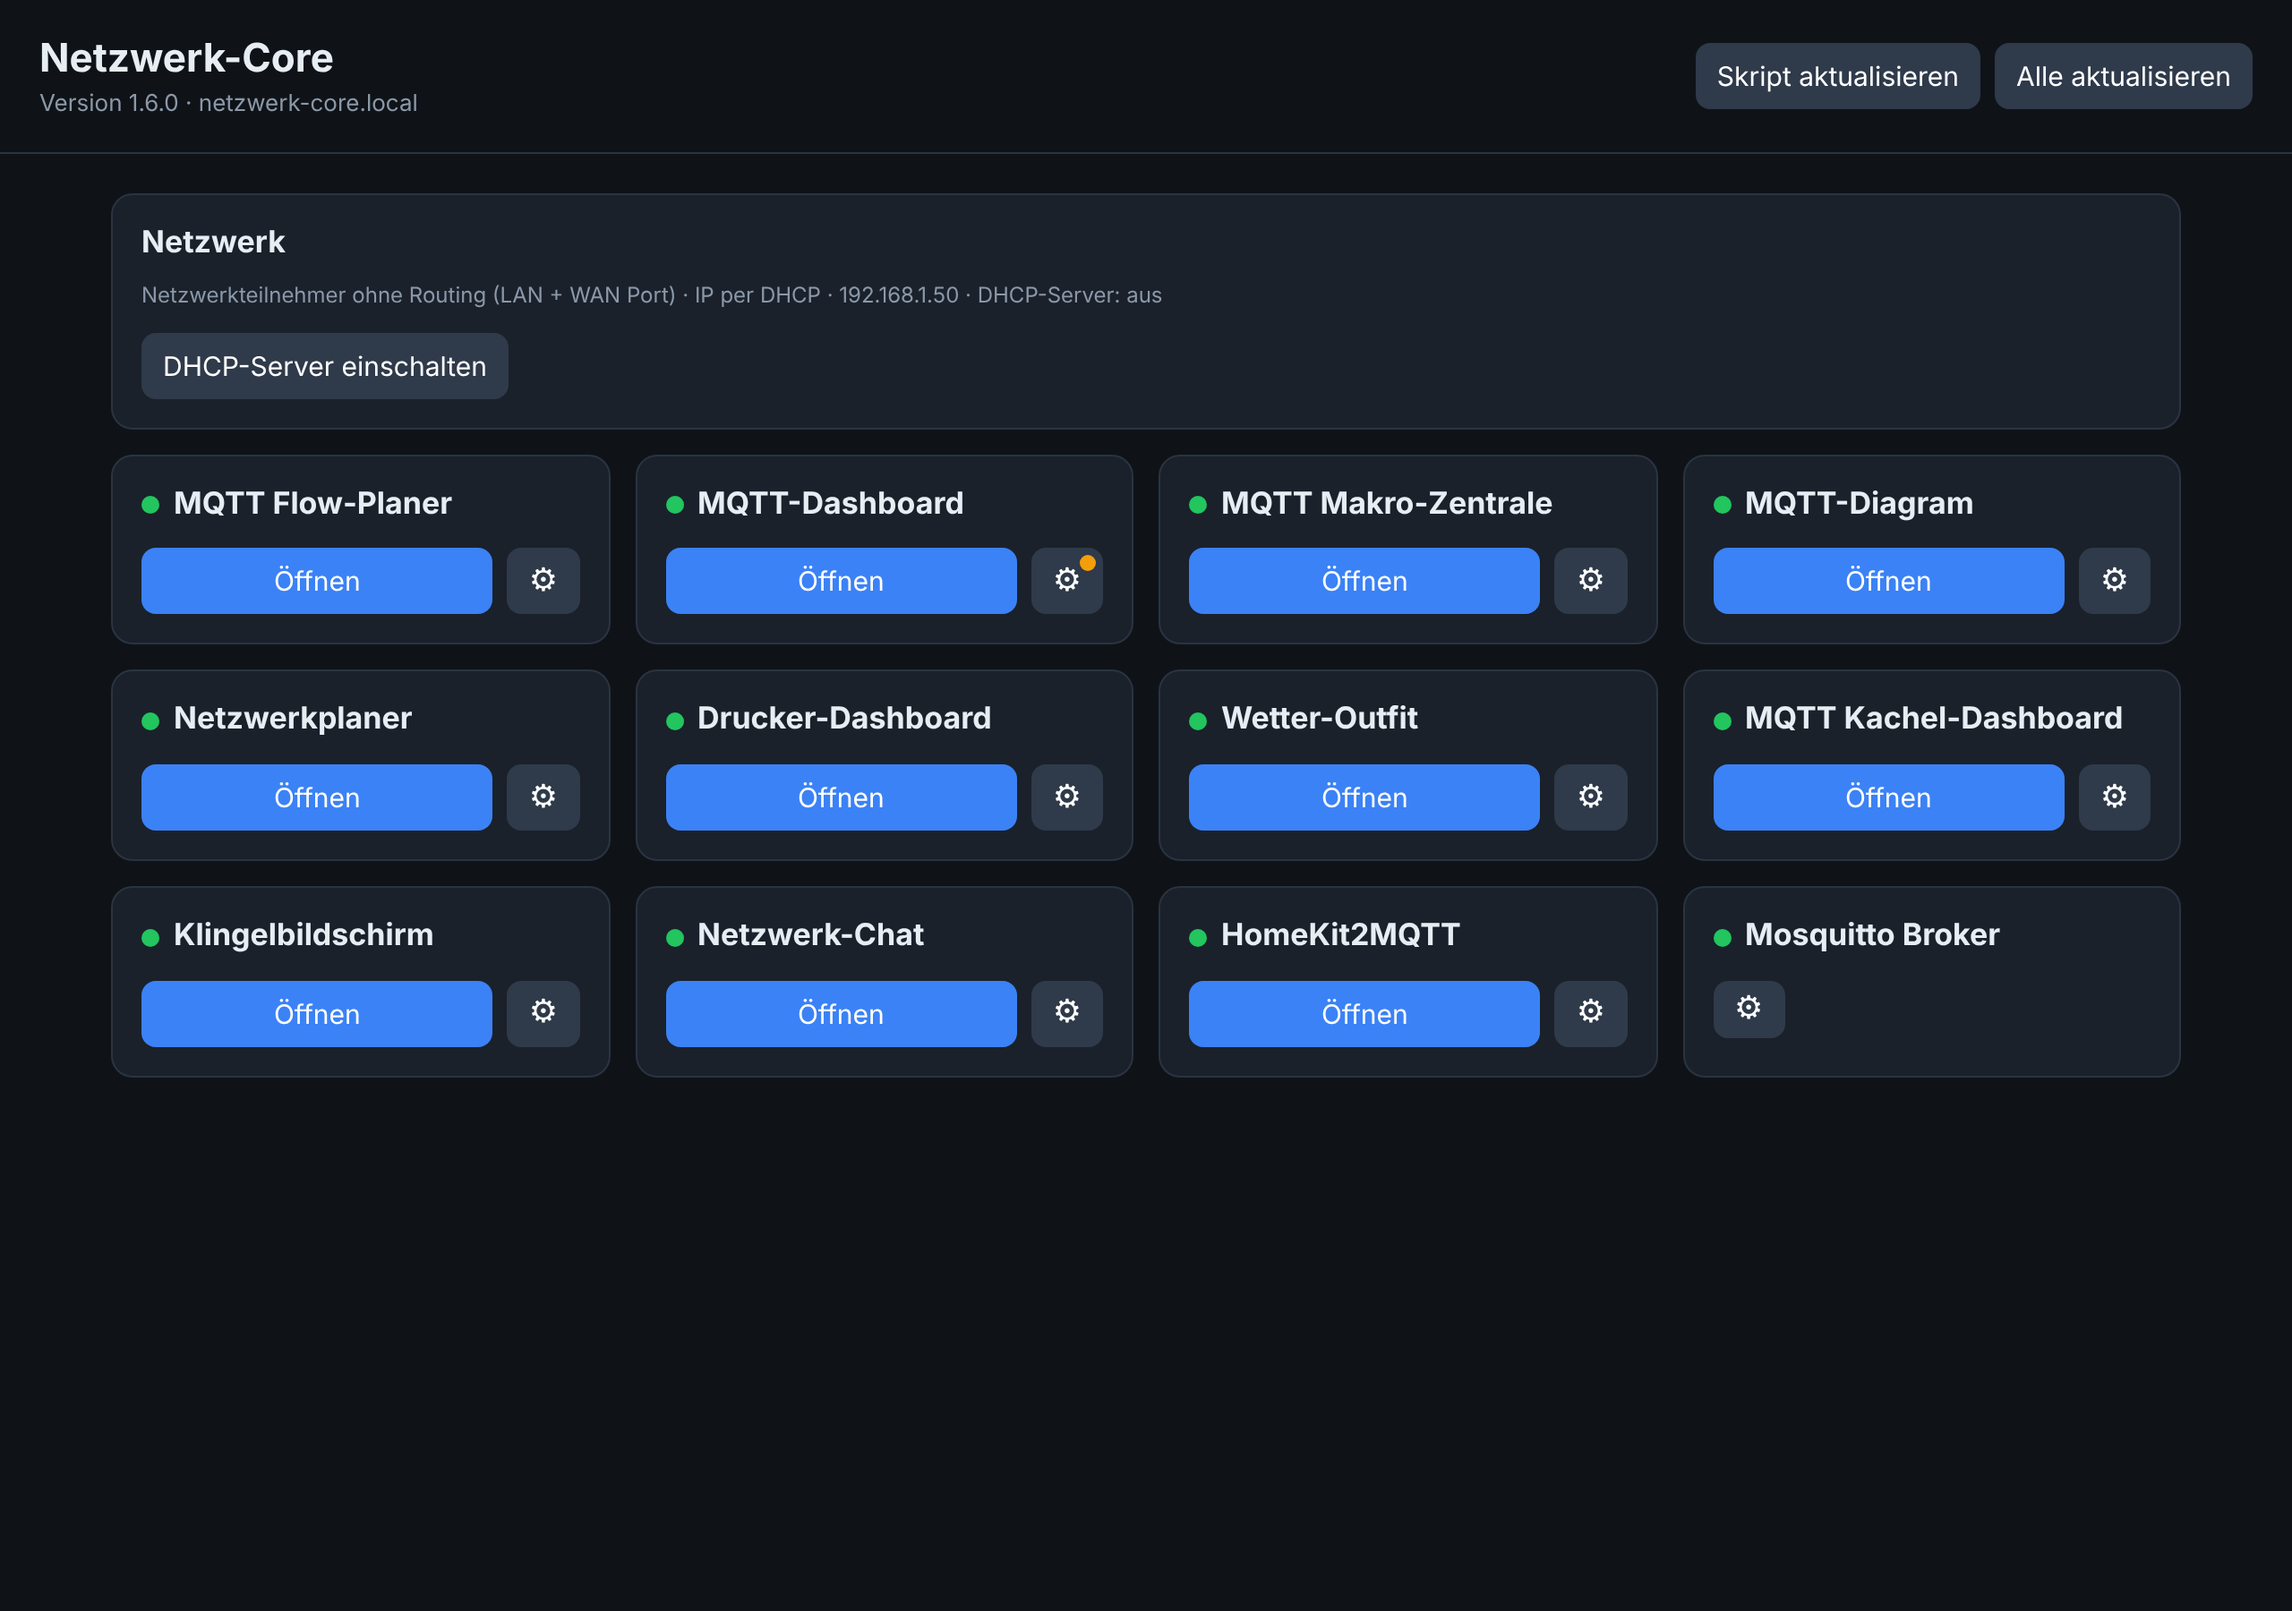
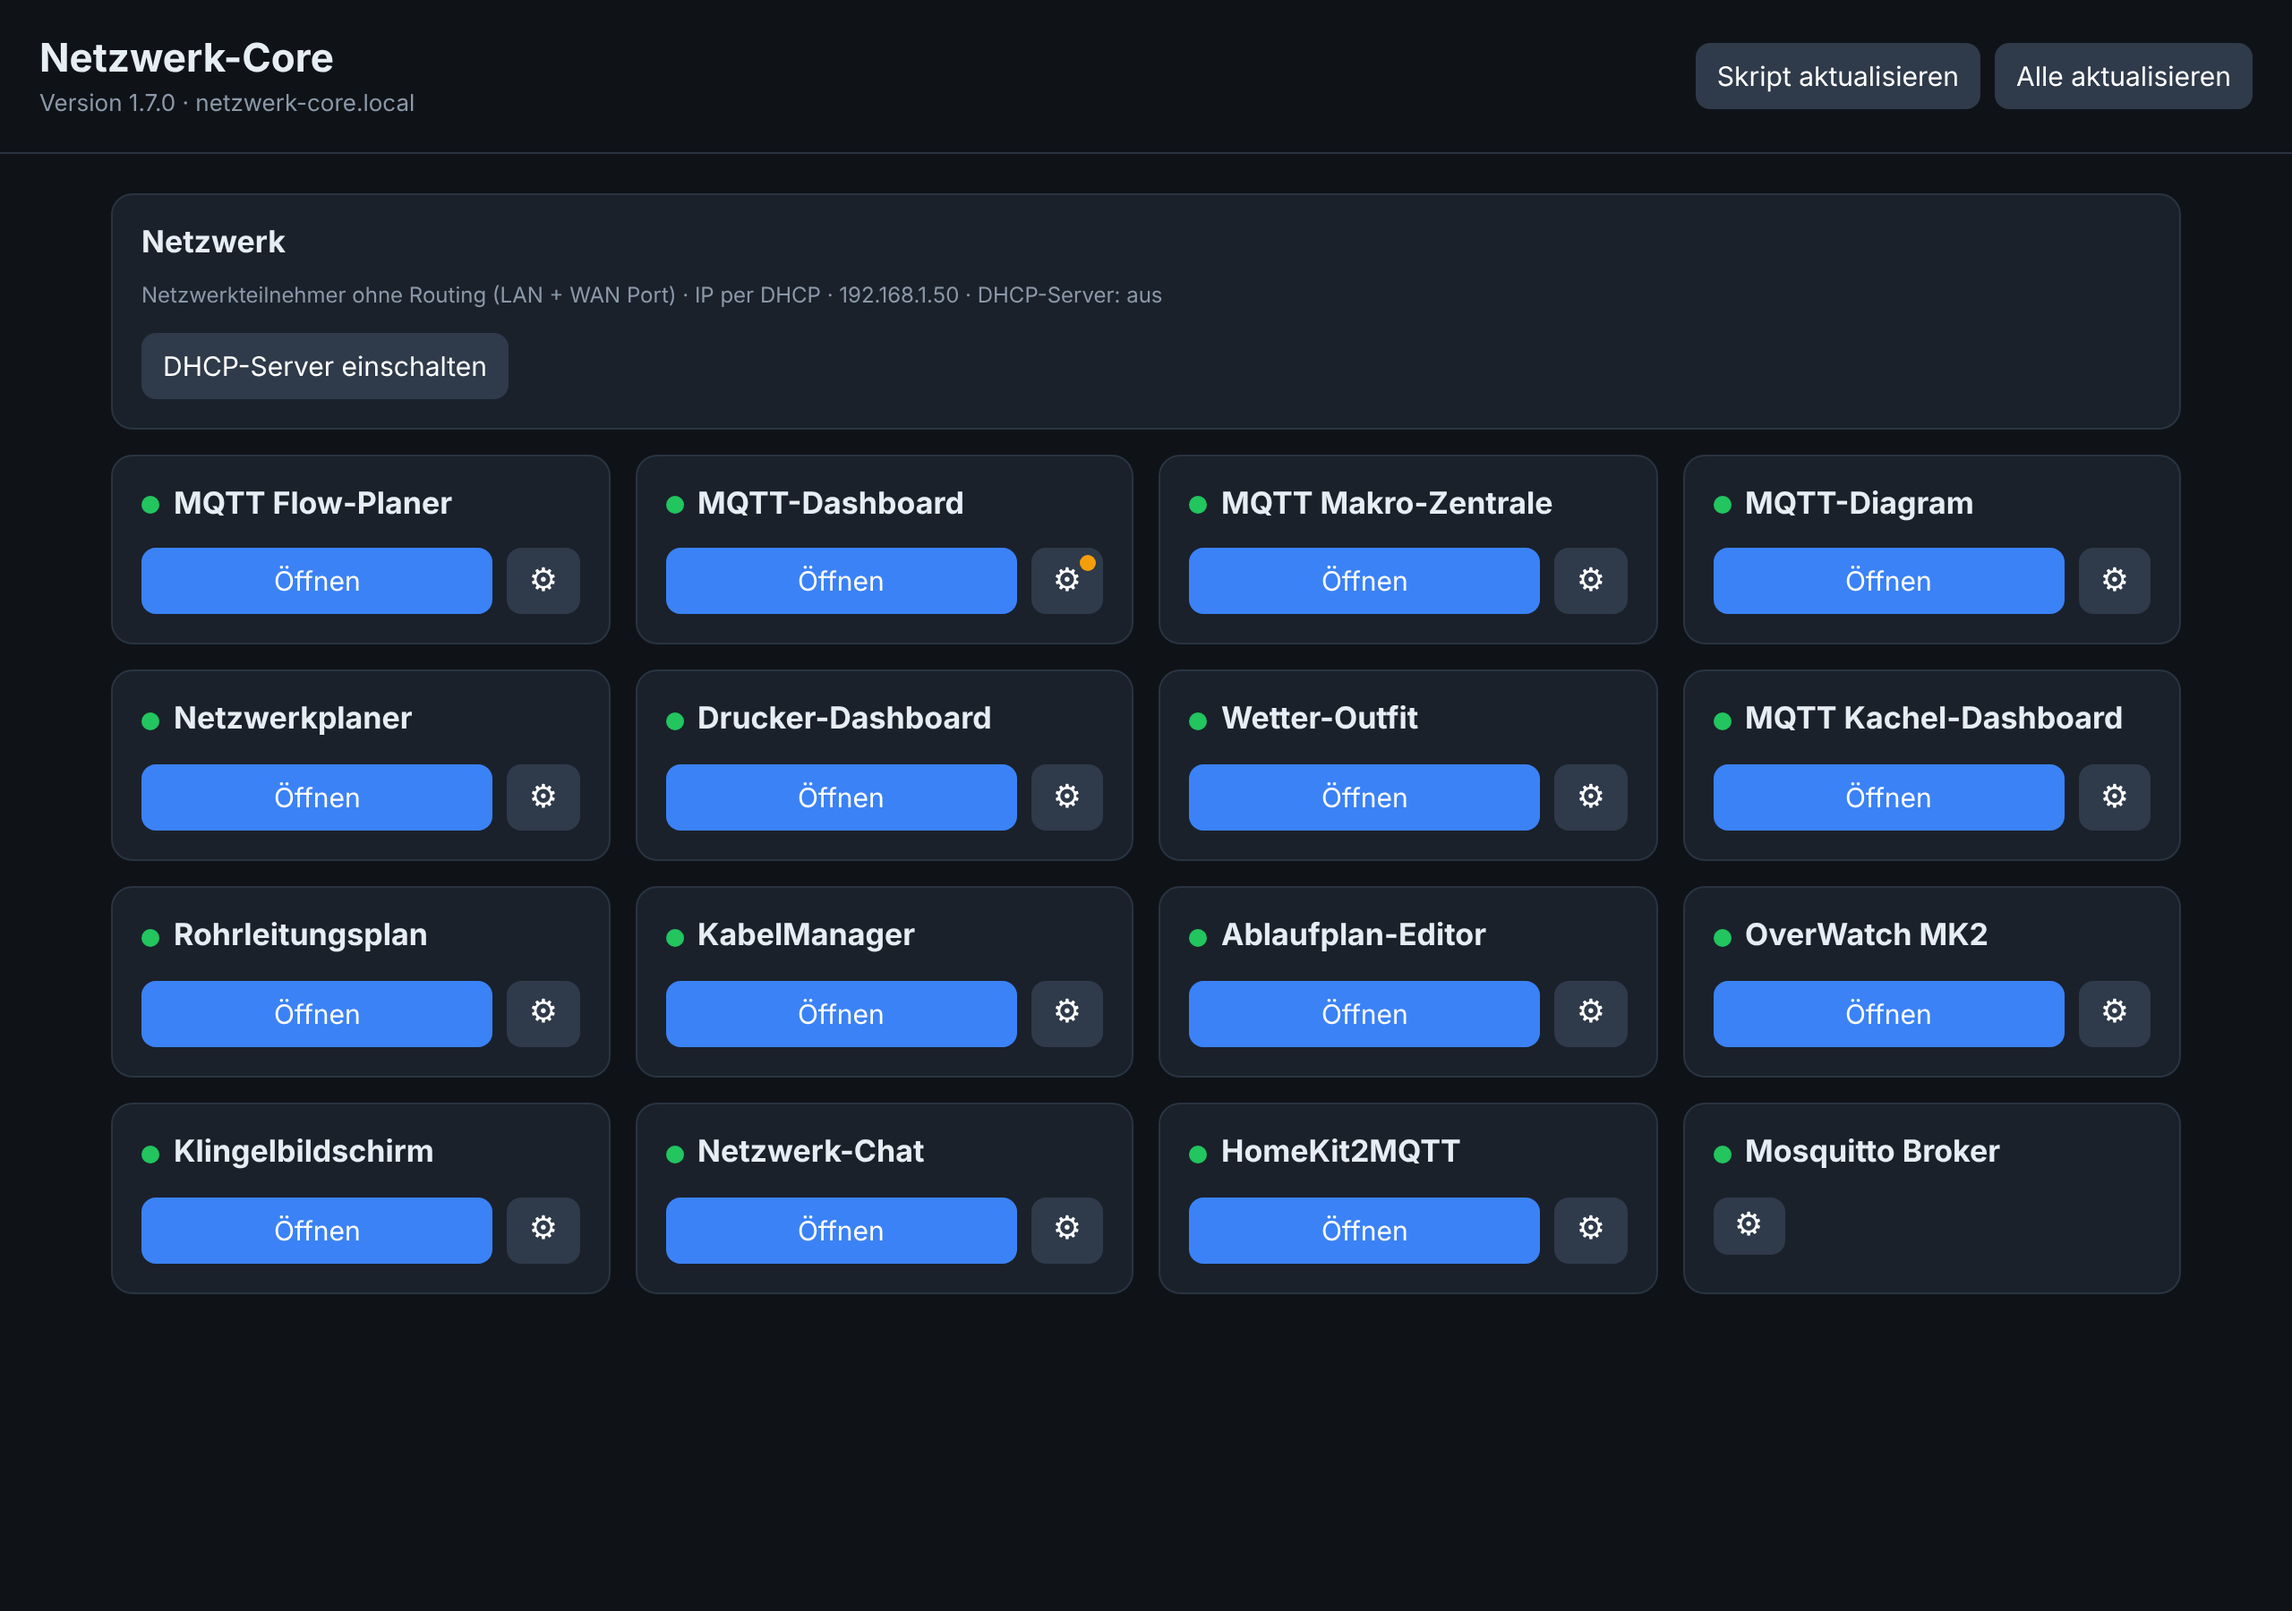
v1.7.0
Klingel: Oeffnen -> Einrichtung; Rohrleitungsplan, KabelManager, Ablaufplan-Editor, OverWatch MK2 (v1.7.0)

- Oeffnen-Button des Klingelbildschirms fuehrt zur Einrichtungsseite (Port 8083)
- Vier neue Dienste mit Ports 8087, 8088, 8089, 8094 (Port in config.json/config.yaml gesetzt)
- config.yaml und .mbtiles bleiben bei Updates erhalten und sind in der ZIP-Sicherung
- Python-Pakete: Einzelinstallation mit Fallback ohne feste Version
- README/Screenshot aktualisiert

diff --git a/README.md b/README.md
@@ -7,7 +7,7 @@ Ein-Klick-Einrichtung für einen **GL.iNet Brume 2 (GL-MT2500, OpenWrt)**: Das S
 ## Was wird installiert?
 
 - `nano`, `mosquitto` (MQTT-Broker, Port 1883)
-- 11 Anwendungen aus GitHub, jeweils mit Autostart (procd)
+- 15 Anwendungen aus GitHub, jeweils mit Autostart (procd)
 - die Statusseite **Netzwerk-Core** auf Port **8090**
 
 | Anwendung | Port |
@@ -20,7 +20,11 @@ Ein-Klick-Einrichtung für einen **GL.iNet Brume 2 (GL-MT2500, OpenWrt)**: Das S
 | Drucker-Dashboard (BambuLab MK6) | 8000 |
 | Wetter-Outfit | 8095 |
 | MQTT Kachel-Dashboard | 8085 |
-| Klingelbildschirm (MK3) | 8081 / 8082 / 8083 |
+| Klingelbildschirm (MK3) | 8081 / 8082 (Anzeigen), 8083 (Einrichtung, Button *Öffnen*) |
+| Rohrleitungsplan | 8087 |
+| KabelManager | 8088 |
+| Ablaufplan-Editor | 8089 |
+| OverWatch MK2 (ohne SMS-Modem) | 8094 |
 | Netzwerk-Chat | 8092 |
 | HomeKit2MQTT | 51888 (HomeKit 51826) |
 
